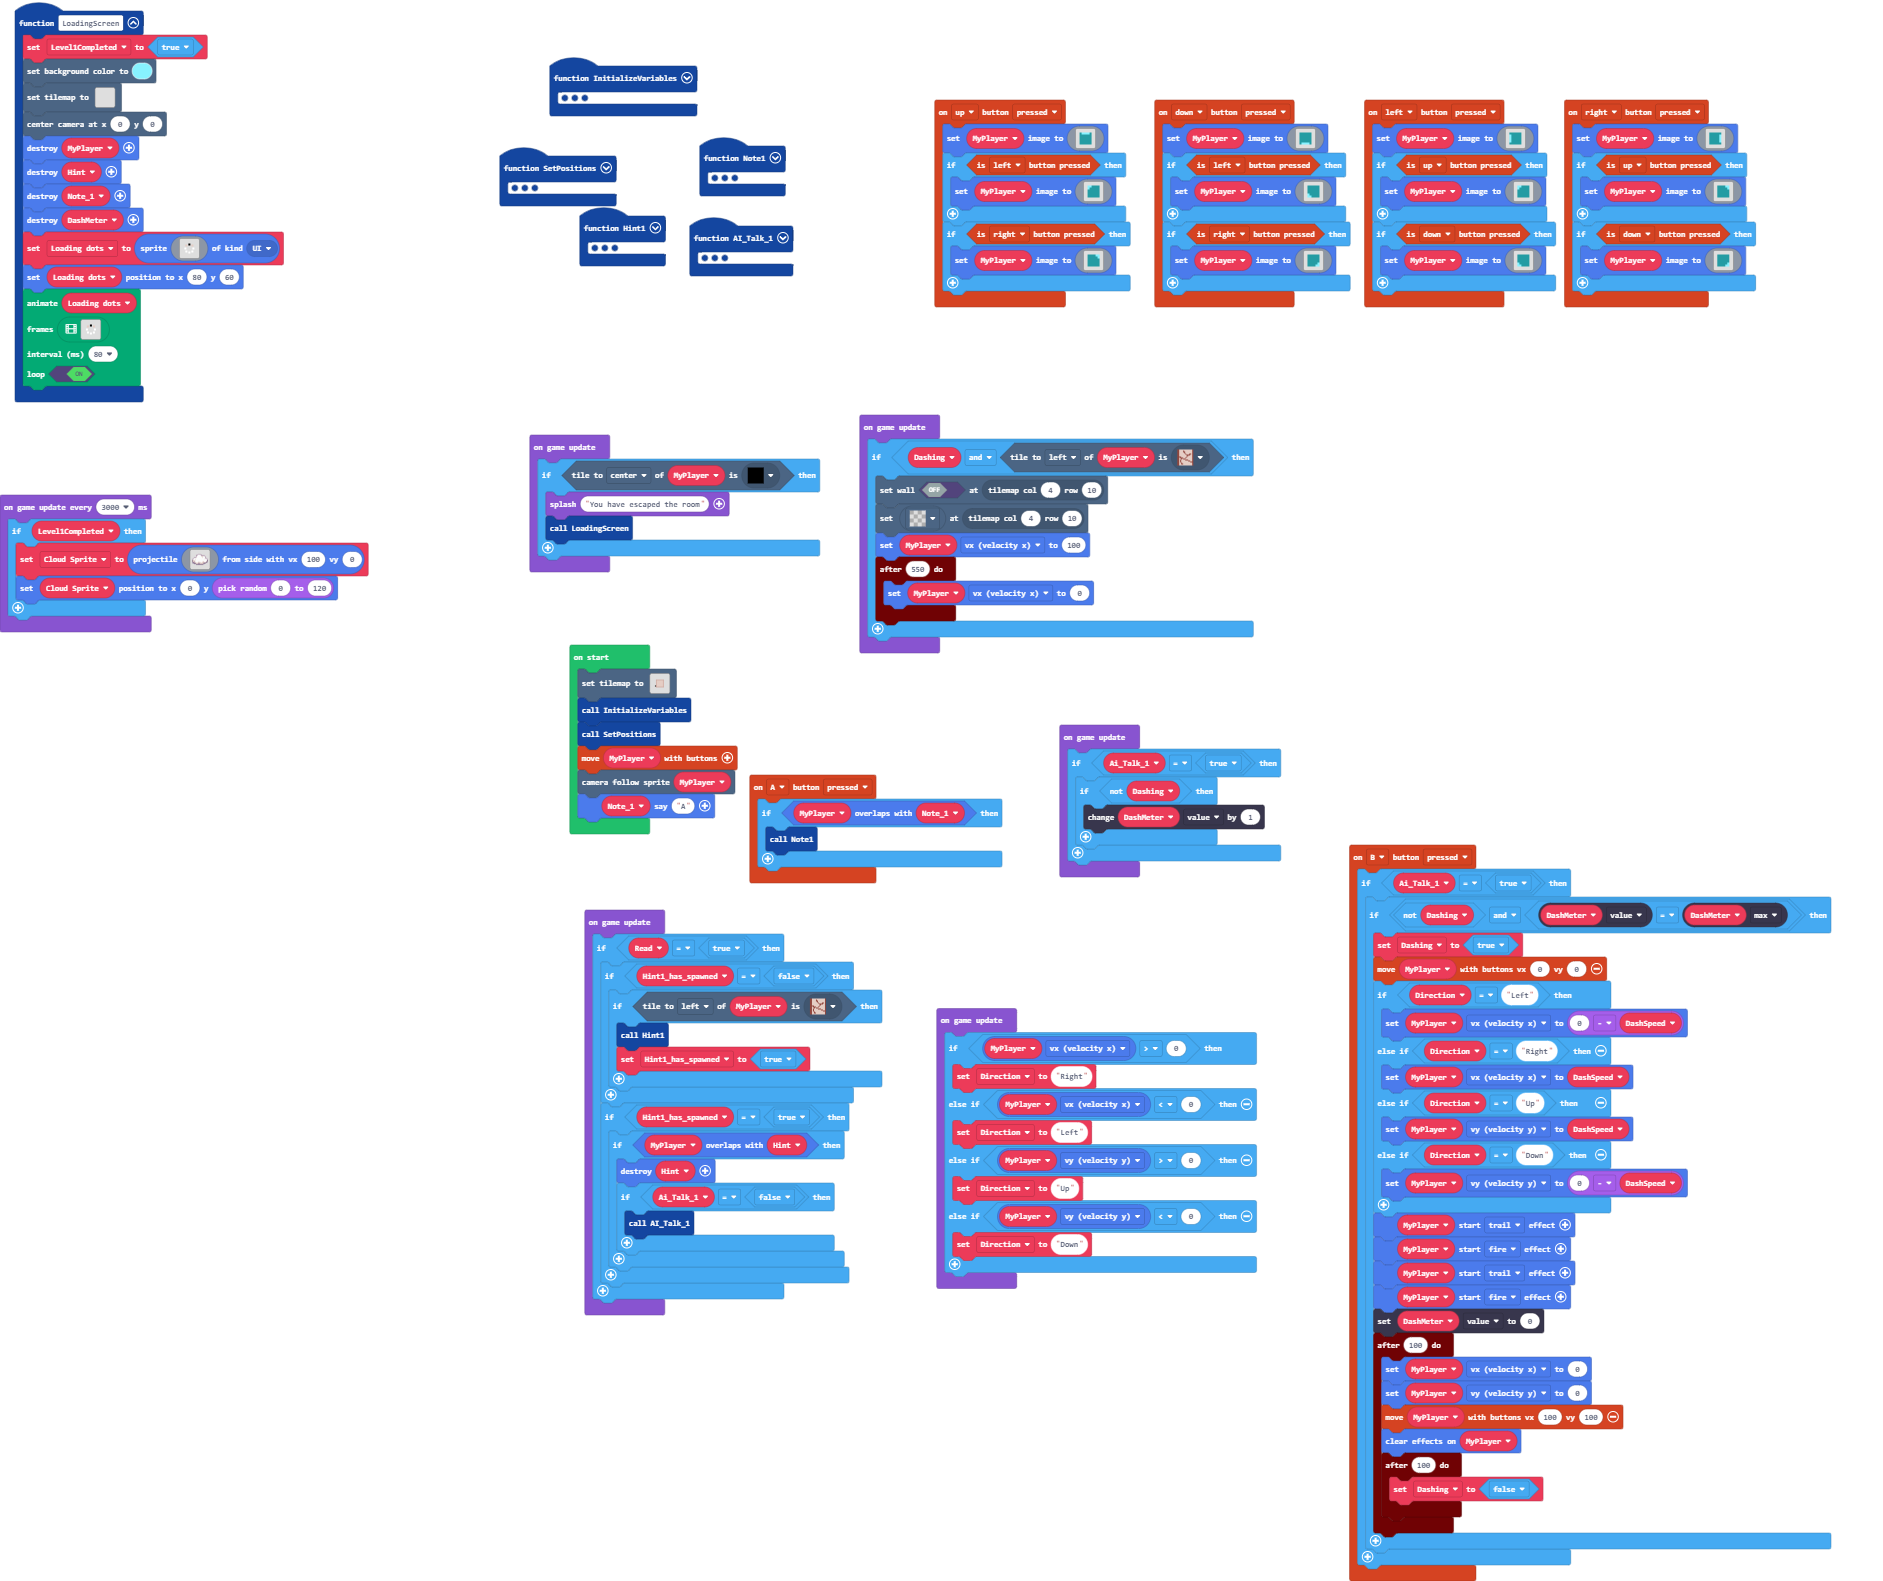
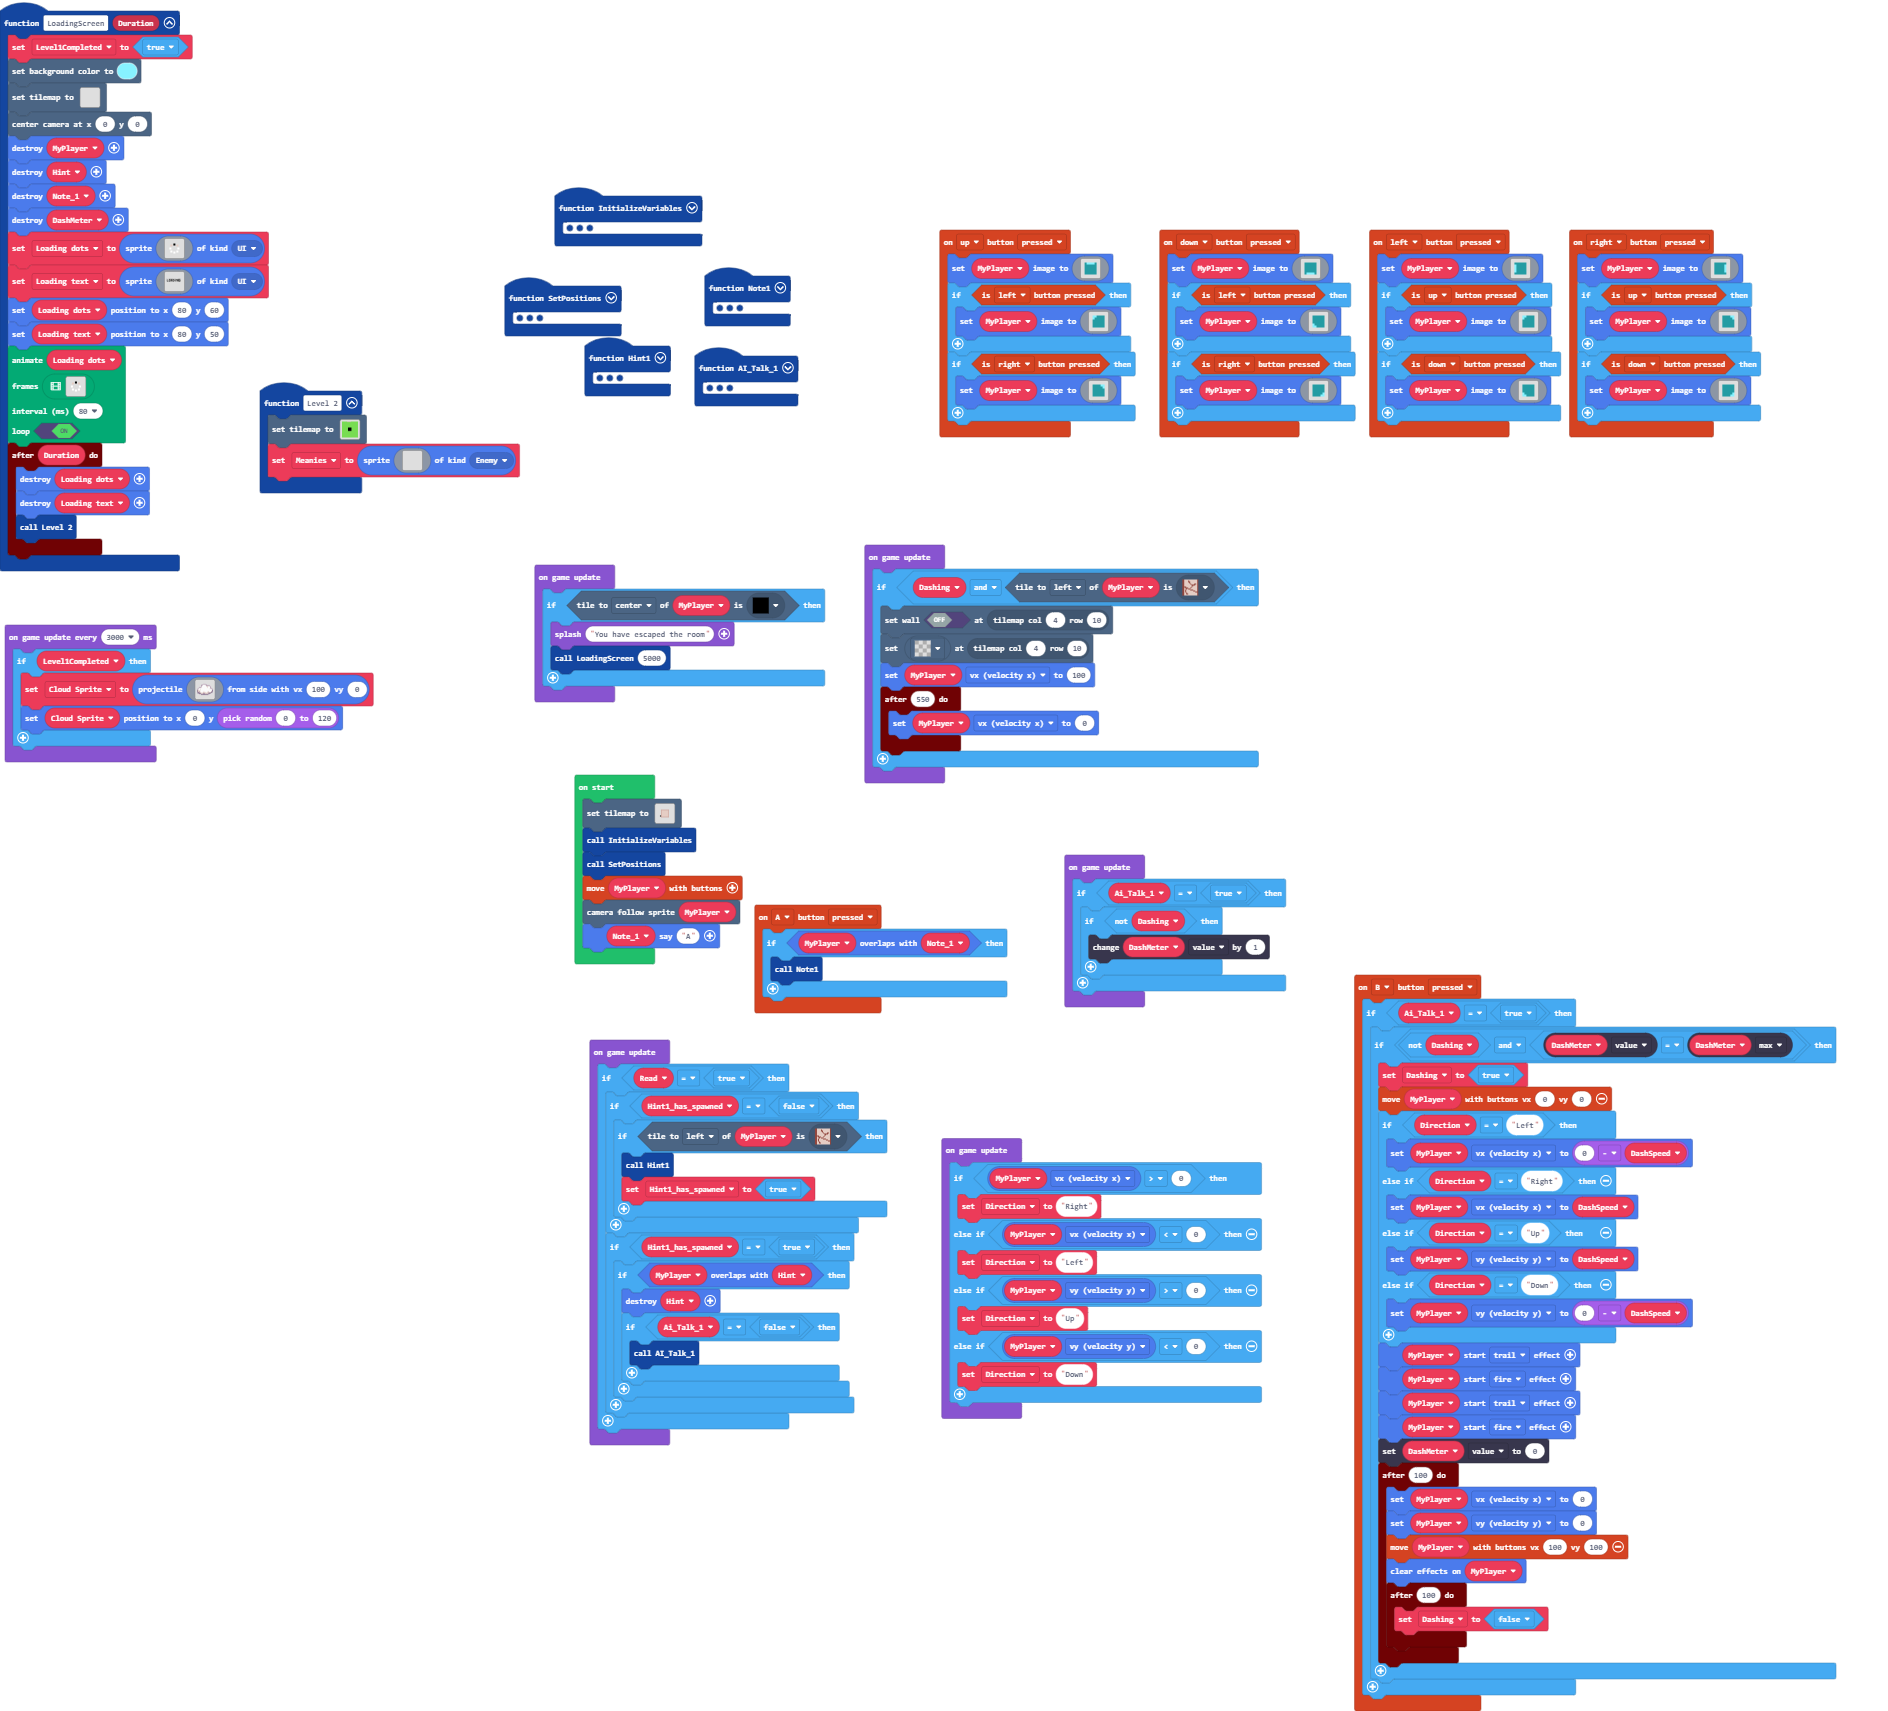
Update pxt.json, images.g.jres, images.g.ts, main.blocks, main.ts, tilemap.g.jres, tilemap.g.ts

diff --git a/tilemap.g.ts b/tilemap.g.ts
@@ -24,6 +24,8 @@ namespace myTiles {
     export const tile11 = image.ofBuffer(hex``);
     //% fixedInstance jres blockIdentity=images._tile
     export const tile10 = image.ofBuffer(hex``);
+    //% fixedInstance jres blockIdentity=images._tile
+    export const tile12 = image.ofBuffer(hex``);
 
     helpers._registerFactory("tilemap", function(name: string) {
         switch(helpers.stringTrim(name)) {
@@ -84,6 +86,41 @@ namespace myTiles {
 . . . . . . . . . . . . . . . . 
 . . . . . . . . . . . . . . . . 
 `, [myTiles.transparency16], TileScale.Sixteen);
+            case "level4":
+            case "level4":return tiles.createTilemap(hex`2000200005050505050505050505020101010101010305050505050505050505050505050505050505050505050505050505050505050505050505050505050505050505050505050505050505050505050505050505050505050505050505050505050505050505050505050505050505050505050505050505050505050505050505050505050505050505050505050505050505050505050505050505050505050505050505050505050505050505050505050505050505050505050505050505050505050505050505050505050505050505050505050505050505050505050505050505050505050505050505050505050505050505050505050505050505050505050505050505050505050505050505050505050505050505050505050505050505050505050505050505050505050505050505050505050505050505050505050505050505050505050505050505050505050505050505050505050505050505050505050505050505050505050505050505050505050505050505050505050505050505050505050505050504040404040404050505050505050505050505050505050505050505050505050404040404040405050505050505050505050505050505050505050505050505040404040404040505050505050505050505050505050505050505050505050504040404040404050505050505050505050505050505050505050505050505050404040404040405050505050505050505050505050505050505050505050505040404040404040505050505050505050505050505050505050505050505050504040404040404050505050505050505050505050505050505050505050505050505050505050505050505050505050505050505050505050505050505050505050505050505050505050505050505050505050505050505050505050505050505050505050505050505050505050505050505050505050505050505050505050505050505050505050505050505050505050505050505050505050505050505050505050505050505050505050505050505050505050505050505050505050505050505050505050505050505050505050505050505050505050505050505050505050505050505050505050505050505050505050505050505050505050505050505050505050505050505050505050505050505050505050505050505050505050505050505050505050505050505050505050505050505050505050505050505050505050505050505050505050505050505050505050505050505050505050505050505050505050505050505050505050505050505050505050505050505050505050505050505050505050505050505050505050505050505050505050505050505050505050505050505050505050505`, img`
+................................
+................................
+................................
+................................
+................................
+................................
+................................
+................................
+................................
+................................
+................................
+................................
+................................
+................................
+................................
+................................
+................................
+................................
+................................
+................................
+................................
+................................
+................................
+................................
+................................
+................................
+................................
+................................
+................................
+................................
+................................
+................................
+`, [myTiles.transparency16,myTiles.tile4,myTiles.tile6,myTiles.tile8,myTiles.tile11,myTiles.tile12], TileScale.Sixteen);
         }
         return null;
     })
@@ -113,6 +150,8 @@ namespace myTiles {
             case "tile11":return tile11;
             case "Wall_1_Right_Cracked":
             case "tile10":return tile10;
+            case "myTile":
+            case "tile12":return tile12;
         }
         return null;
     })

diff --git a/main.ts b/main.ts
@@ -86,6 +86,10 @@ function AI_Talk_1 () {
     DashMeter.left = 2
     Ai_Talk_1 = true
 }
+function Level_2 () {
+    tiles.setTilemap(tilemap`level4`)
+    Meanies = sprites.create(assets.image`Meanies`, SpriteKind.Enemy)
+}
 function SetPositions () {
     tiles.placeOnTile(MyPlayer, tiles.getTileLocation(7, 8))
     tiles.placeOnTile(Note_1, tiles.getTileLocation(9, 6))
@@ -108,7 +112,7 @@ controller.down.onEvent(ControllerButtonEvent.Pressed, function () {
         MyPlayer.setImage(assets.image`Player_BottomRight`)
     }
 })
-function LoadingScreen () {
+function LoadingScreen (Duration: number) {
     Level1Completed = true
     scene.setBackgroundColor(9)
     tiles.setTilemap(tilemap`LoadingScreen`)
@@ -118,13 +122,20 @@ function LoadingScreen () {
     Note_1.destroy()
     DashMeter.destroy()
     Loading_dots = sprites.create(assets.image`Loading dots`, SpriteKind.UI)
+    Loading_text = sprites.create(assets.image`Loading Text`, SpriteKind.UI)
     Loading_dots.setPosition(80, 60)
+    Loading_text.setPosition(80, 50)
     animation.runImageAnimation(
     Loading_dots,
     assets.animation`Loading Dots`,
     80,
     true
     )
+    timer.after(Duration, function () {
+        Loading_dots.destroy()
+        Loading_text.destroy()
+        Level_2()
+    })
 }
 function InitializeVariables () {
     DashSpeed = 500
@@ -158,8 +169,10 @@ function Note1 () {
 let Cloud_Sprite: Sprite = null
 let Hint1_has_spawned = false
 let Read = false
+let Loading_text: Sprite = null
 let Loading_dots: Sprite = null
 let Level1Completed = false
+let Meanies: Sprite = null
 let Hint: Sprite = null
 let DashSpeed = 0
 let Direction = ""
@@ -187,7 +200,7 @@ game.onUpdate(function () {
 game.onUpdate(function () {
     if (MyPlayer.tileKindAt(TileDirection.Center, assets.tile`Check Point`)) {
         game.splash("You have escaped the room")
-        LoadingScreen()
+        LoadingScreen(5000)
     }
 })
 game.onUpdate(function () {

diff --git a/images.g.ts b/images.g.ts
@@ -332,6 +332,60 @@ cddbd11111d11111dd111dc.
 ...cccdddbbbdddddcc.....
 ......ccccccccccc.......
 `;
+            case "ZeM%;Q:NHmZ!C=3DK1T^":
+            case "Loading Text":return img`
+................................
+................................
+................................
+................................
+................................
+................................
+................................
+................................
+................................
+................................
+................................
+.f...fff.fff.ff..f.f..f.ffff....
+.f...f.f.f.f.f.f.f.ff.f.f.......
+.f...f.f.f.f.f.f.f.f.ff.f.ff....
+.f...f.f.fff.f.f.f.f..f.f..f....
+.fff.fff.f.f.ff..f.f..f.ffff....
+................................
+................................
+................................
+................................
+................................
+................................
+................................
+................................
+................................
+................................
+................................
+................................
+................................
+................................
+................................
+................................
+`;
+            case "~W[W@yy|pQ|KNC+)":
+            case "Meanies":return img`
+. . . . . . . . . . . . . . . . 
+. . . . . . . . . . . . . . . . 
+. . . . . . . . . . . . . . . . 
+. . . . . . . . . . . . . . . . 
+. . . . . . . . . . . . . . . . 
+. . . . . . . . . . . . . . . . 
+. . . . . . . . . . . . . . . . 
+. . . . . . . . . . . . . . . . 
+. . . . . . . . . . . . . . . . 
+. . . . . . . . . . . . . . . . 
+. . . . . . . . . . . . . . . . 
+. . . . . . . . . . . . . . . . 
+. . . . . . . . . . . . . . . . 
+. . . . . . . . . . . . . . . . 
+. . . . . . . . . . . . . . . . 
+. . . . . . . . . . . . . . . . 
+`;
         }
         return null;
     })
